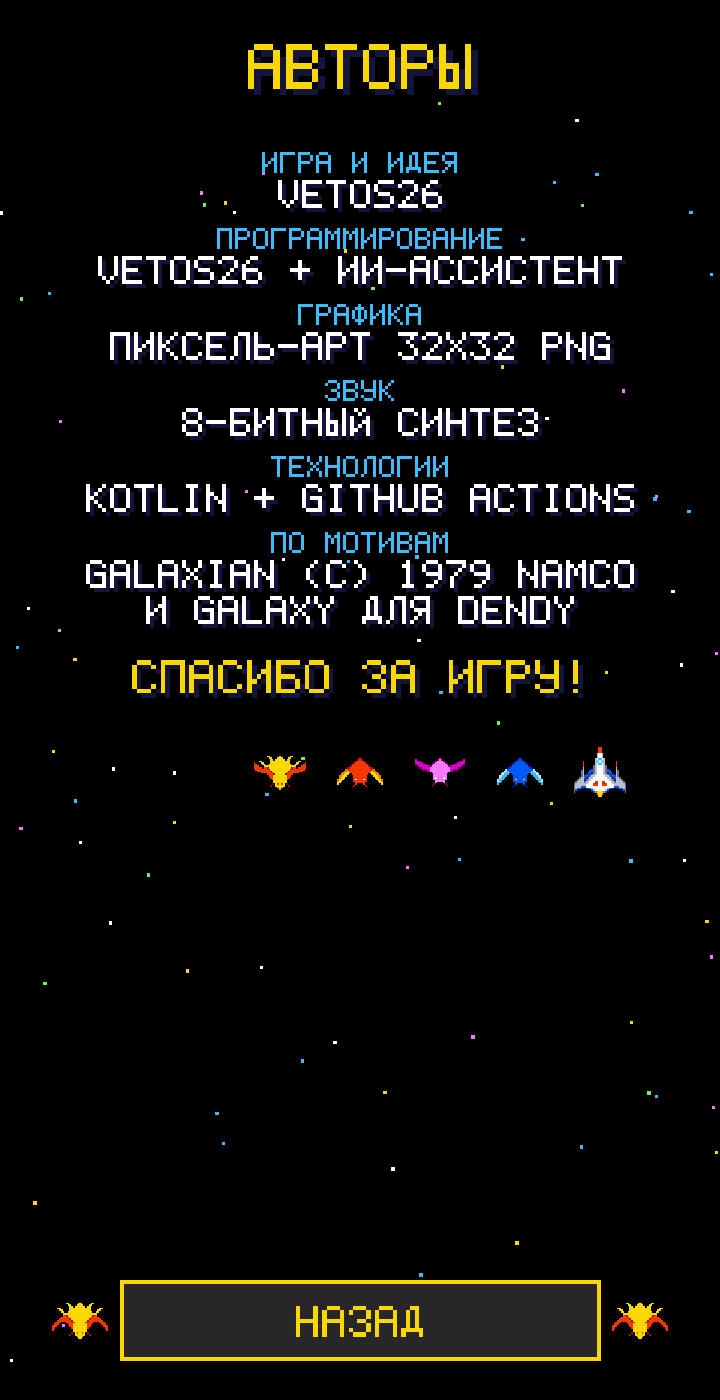
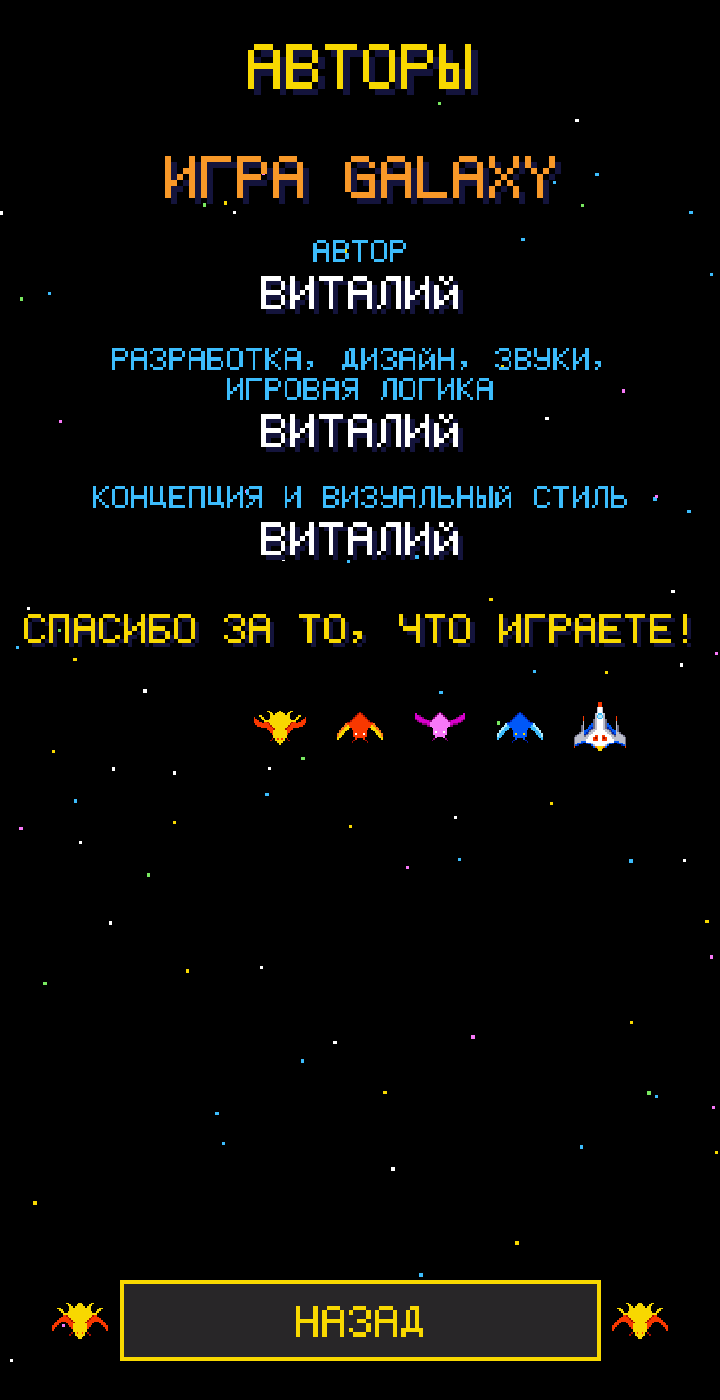
Credits: Galaxy by Vitaliy; loading screen copyright: Home Studio

Changed region(s): [[0.0306, 0.0921, 0.9778, 0.5836]]

diff --git a/app/src/main/java/com/vetos26/galaxy/Menu.kt b/app/src/main/java/com/vetos26/galaxy/Menu.kt
@@ -49,19 +49,22 @@ class Menu(
     private val pauseItems = arrayOf("ПРОДОЛЖИТЬ", "НАСТРОЙКИ", "ГЛАВНОЕ МЕНЮ")
     private val settingsCount = 9
 
-    /** Credits: first = text, second = style (0 - section title, 1 - name, 2 - big line). Edit freely. */
+    /**
+     * Credits: first = text, second = style. Edit freely.
+     * 0 - section title, 4 - continuation of a section title, 1 - name,
+     * 3 - big title, 2 - big closing line.
+     */
     private val credits = listOf(
-        "ИГРА И ИДЕЯ" to 0, "VETOS26" to 1,
-        "ПРОГРАММИРОВАНИЕ" to 0, "VETOS26 + ИИ-АССИСТЕНТ" to 1,
-        "ГРАФИКА" to 0, "ПИКСЕЛЬ-АРТ 32X32 PNG" to 1,
-        "ЗВУК" to 0, "8-БИТНЫЙ СИНТЕЗ" to 1,
-        "ТЕХНОЛОГИИ" to 0, "KOTLIN + GITHUB ACTIONS" to 1,
-        "ПО МОТИВАМ" to 0, "GALAXIAN (C) 1979 NAMCO" to 1, "И GALAXY ДЛЯ DENDY" to 1,
-        "СПАСИБО ЗА ИГРУ!" to 2,
+        "ИГРА GALAXY" to 3,
+        "АВТОР" to 0, "ВИТАЛИЙ" to 1,
+        "РАЗРАБОТКА, ДИЗАЙН, ЗВУКИ," to 0, "ИГРОВАЯ ЛОГИКА" to 4, "ВИТАЛИЙ" to 1,
+        "КОНЦЕПЦИЯ И ВИЗУАЛЬНЫЙ СТИЛЬ" to 0, "ВИТАЛИЙ" to 1,
+        "СПАСИБО ЗА ТО, ЧТО ИГРАЕТЕ!" to 2,
     )
 
     // ------------------------------------------------------------ colors
     private val yellow = Color.rgb(248, 216, 0)
+    private val orange = Color.rgb(248, 152, 40)
     private val red = Color.rgb(248, 56, 0)
     private val cyan = Color.rgb(60, 188, 252)
     private val pink = Color.rgb(248, 120, 248)
@@ -376,22 +379,33 @@ class Menu(
 
     private fun drawCredits(c: Canvas) {
         PixelFont.drawShadow(c, "АВТОРЫ", Game.VW / 2f, top + 22f, 3.2f, yellow, Align.CENTER)
-        var y = top + 70f
+        var y = top + 78f
         for ((text, style) in credits) {
             when (style) {
                 0 -> {
-                    y += 6f
-                    PixelFont.draw(c, text, Game.VW / 2f, y, 1.5f, cyan, Align.CENTER)
-                    y += 14f
+                    y += 16f
+                    PixelFont.draw(c, text, Game.VW / 2f, y, 1.6f, cyan, Align.CENTER)
+                    y += 15f
+                }
+                4 -> {
+                    PixelFont.draw(c, text, Game.VW / 2f, y, 1.6f, cyan, Align.CENTER)
+                    y += 15f
                 }
                 1 -> {
-                    PixelFont.drawShadow(c, text, Game.VW / 2f, y, 2f, Color.WHITE, Align.CENTER)
-                    y += 18f
+                    y += 3f
+                    PixelFont.drawShadow(c, text, Game.VW / 2f, y, 2.4f, Color.WHITE, Align.CENTER)
+                    y += 20f
+                }
+                3 -> {
+                    PixelFont.drawShadow(c, text, Game.VW / 2f, y, 3f, orange, Align.CENTER)
+                    y += 26f
                 }
                 else -> {
-                    y += 14f
-                    PixelFont.drawShadow(c, text, Game.VW / 2f, y, 2.4f, yellow, Align.CENTER)
-                    y += 22f
+                    y += 26f
+                    // shrink long lines so they always fit the screen width
+                    val size = min(2.4f, (Game.VW - 24f) / PixelFont.width(text, 1f))
+                    PixelFont.drawShadow(c, text, Game.VW / 2f, y, size, yellow, Align.CENTER)
+                    y += 7f * size + 8f
                 }
             }
         }

diff --git a/app/src/main/java/com/vetos26/galaxy/Game.kt b/app/src/main/java/com/vetos26/galaxy/Game.kt
@@ -808,7 +808,7 @@ class Game(context: Context) {
         PixelFont.drawShadow(c, "ЗАГРУЗКА$dots", bx, by + 22f, 2f, WHITE)
         PixelFont.drawShadow(c, "${(p * 100).toInt()}%", bx + bw, by + 22f, 2f, YELLOW, Align.RIGHT)
 
-        PixelFont.draw(c, "(C) 2026 VETOS26", VW / 2f, vh - 40f, 1.5f, GREY, Align.CENTER)
+        PixelFont.draw(c, "(C) 2026 HOME STUDIO", VW / 2f, vh - 40f, 1.5f, GREY, Align.CENTER)
         PixelFont.draw(c, "MADE WITH KOTLIN", VW / 2f, vh - 24f, 1.5f, GREY, Align.CENTER)
     }
 

diff --git a/app/src/main/java/com/vetos26/galaxy/PixelFont.kt b/app/src/main/java/com/vetos26/galaxy/PixelFont.kt
@@ -95,7 +95,7 @@ object PixelFont {
     /** Cyrillic letters drawn with the identical Latin glyph. */
     private val aliases = mapOf(
         'А' to 'A', 'В' to 'B', 'Е' to 'E', 'Ё' to 'E', 'К' to 'K', 'М' to 'M', 'Н' to 'H',
-        'О' to 'O', 'Р' to 'P', 'С' to 'C', 'Т' to 'T', 'Х' to 'X',
+        'О' to 'O', 'Р' to 'P', 'С' to 'C', 'Т' to 'T', 'Х' to 'X', '—' to '-', '–' to '-',
     )
 
     private val glyphs = HashMap<Char, Bitmap>()

diff --git a/tools/make_menu_mockup.py b/tools/make_menu_mockup.py
@@ -107,11 +107,15 @@ s.save('menu_settings.png')
 s = Screen()
 s.text('АВТОРЫ', 180, 22, 3.2, YEL, 'c', True)
 mk = re.search(r'private val credits = listOf\((.*?)\n    \)', open(os.path.join(ROOT, 'app/src/main/java/com/vetos26/galaxy/Menu.kt'), encoding='utf-8').read(), re.S).group(1)
-y = 70
+y = 78
+ORANGE = (248, 152, 40)
 for t, st in re.findall(r'"([^"]*)" to (\d)', mk):
-    if st == '0': y += 6; s.text(t, 180, y, 1.5, CY, 'c'); y += 14
-    elif st == '1': s.text(t, 180, y, 2, WHITE, 'c', True); y += 18
-    else: y += 14; s.text(t, 180, y, 2.4, YEL, 'c', True); y += 22
+    if st == '0': y += 16; s.text(t, 180, y, 1.6, CY, 'c'); y += 15
+    elif st == '4': s.text(t, 180, y, 1.6, CY, 'c'); y += 15
+    elif st == '1': y += 3; s.text(t, 180, y, 2.4, WHITE, 'c', True); y += 20
+    elif st == '3': s.text(t, 180, y, 3, ORANGE, 'c', True); y += 26
+    else:
+        y += 26; sz = min(2.4, (VW - 24) / (len(t) * 6 - 1)); s.text(t, 180, y, sz, YEL, 'c', True); y += 7 * sz + 8
 py = y + 34
 for i, n in enumerate(['player', 'enemy_blue_1', 'enemy_purple_2', 'enemy_red_1', 'enemy_flagship_2']):
     s.spr(n, 300 - i*40, py, 28 if i == 0 else 26)
